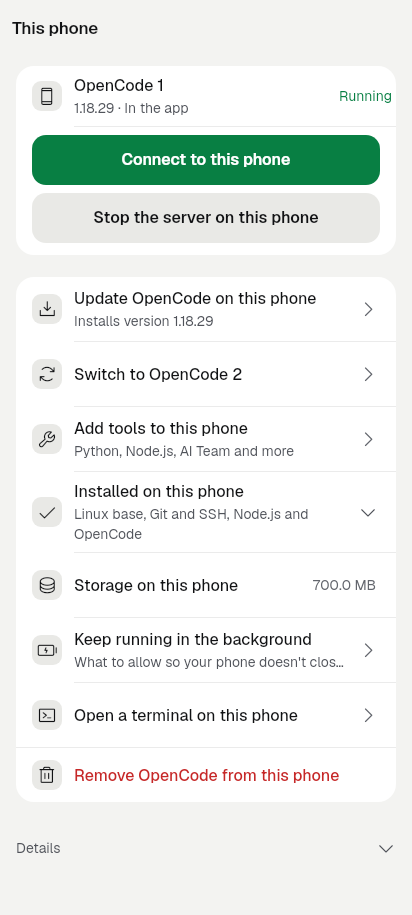
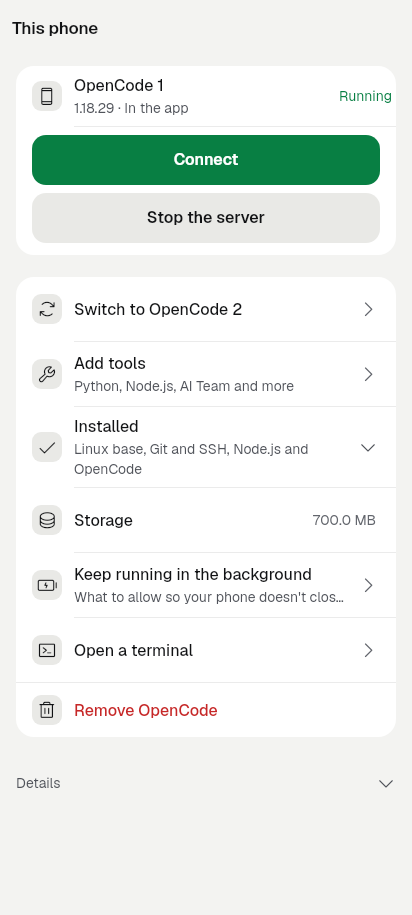
fix(phone): This phone rows stop repeating 'on this phone' [skip ci]
The page title names the phone; rows now read Connect, Stop the server,
Update OpenCode, Add tools, Installed, Storage, Open a terminal, Remove OpenCode.

Claude-Session: https://claude.ai/code/session_01K4UE4B9G3gAraoExNtCciU

diff --git a/lib/l10n/app_localizations.dart b/lib/l10n/app_localizations.dart
@@ -40602,25 +40602,25 @@ abstract class AppLocalizations {
   /// This phone: the button when OpenCode is not set up yet
   ///
   /// In en, this message translates to:
-  /// **'Set up OpenCode on this phone'**
+  /// **'Set up OpenCode'**
   String get thisPhoneSetUp;
 
   /// This phone: the button that starts the stopped OpenCode server
   ///
   /// In en, this message translates to:
-  /// **'Start the server on this phone'**
+  /// **'Start the server'**
   String get thisPhoneStart;
 
   /// This phone: the button that stops the running OpenCode server (it asks first)
   ///
   /// In en, this message translates to:
-  /// **'Stop the server on this phone'**
+  /// **'Stop the server'**
   String get thisPhoneStop;
 
   /// This phone: the row that installs the pinned OpenCode version again
   ///
   /// In en, this message translates to:
-  /// **'Update OpenCode on this phone'**
+  /// **'Update OpenCode'**
   String get thisPhoneUpdate;
 
   /// Technical: This phone: the line under Update, naming the pinned version it installs, e.g. 'Installs version 1.18.29'
@@ -40632,7 +40632,7 @@ abstract class AppLocalizations {
   /// This phone: the row (and sheet title) that adds optional tools
   ///
   /// In en, this message translates to:
-  /// **'Add tools to this phone'**
+  /// **'Add tools'**
   String get thisPhoneAddTools;
 
   /// This phone: the line under Add tools for OpenCode inside the app
@@ -40650,19 +40650,31 @@ abstract class AppLocalizations {
   /// This phone: the folded row that lists what setup installed
   ///
   /// In en, this message translates to:
-  /// **'Installed on this phone'**
+  /// **'Installed'**
   String get thisPhoneInstalled;
 
   /// This phone: the row that opens a shell in this phone's Linux
   ///
   /// In en, this message translates to:
-  /// **'Open a terminal on this phone'**
+  /// **'Open a terminal'**
   String get thisPhoneTerminal;
+
+  /// This phone: the storage row. The page title already names the phone.
+  ///
+  /// In en, this message translates to:
+  /// **'Storage'**
+  String get thisPhoneStorage;
+
+  /// This phone: the primary button that connects the app to this phone's running server. The page title names the phone.
+  ///
+  /// In en, this message translates to:
+  /// **'Connect'**
+  String get thisPhoneConnect;
 
   /// This phone: the destructive row that removes OpenCode (it asks first)
   ///
   /// In en, this message translates to:
-  /// **'Remove OpenCode from this phone'**
+  /// **'Remove OpenCode'**
   String get thisPhoneRemove;
 
   /// This phone: why a row is off while OpenCode starts, stops or installs

diff --git a/lib/l10n/app_localizations_ar.dart b/lib/l10n/app_localizations_ar.dart
@@ -25993,16 +25993,16 @@ class AppLocalizationsAr extends AppLocalizations {
   String get thisPhoneNeedsAttention => 'Needs you';
 
   @override
-  String get thisPhoneSetUp => 'Set up OpenCode on this phone';
+  String get thisPhoneSetUp => 'Set up OpenCode';
 
   @override
-  String get thisPhoneStart => 'Start the server on this phone';
+  String get thisPhoneStart => 'Start the server';
 
   @override
-  String get thisPhoneStop => 'Stop the server on this phone';
+  String get thisPhoneStop => 'Stop the server';
 
   @override
-  String get thisPhoneUpdate => 'Update OpenCode on this phone';
+  String get thisPhoneUpdate => 'Update OpenCode';
 
   @override
   String thisPhoneUpdateDetail(String version) {
@@ -26010,7 +26010,7 @@ class AppLocalizationsAr extends AppLocalizations {
   }
 
   @override
-  String get thisPhoneAddTools => 'Add tools to this phone';
+  String get thisPhoneAddTools => 'Add tools';
 
   @override
   String get thisPhoneAddToolsInApp => 'Python, Node.js, AI Team and more';
@@ -26019,13 +26019,19 @@ class AppLocalizationsAr extends AppLocalizations {
   String get thisPhoneAddToolsTermux => 'AI Team and Claude Code';
 
   @override
-  String get thisPhoneInstalled => 'Installed on this phone';
+  String get thisPhoneInstalled => 'Installed';
 
   @override
-  String get thisPhoneTerminal => 'Open a terminal on this phone';
+  String get thisPhoneTerminal => 'Open a terminal';
 
   @override
-  String get thisPhoneRemove => 'Remove OpenCode from this phone';
+  String get thisPhoneStorage => 'Storage';
+
+  @override
+  String get thisPhoneConnect => 'Connect';
+
+  @override
+  String get thisPhoneRemove => 'Remove OpenCode';
 
   @override
   String get thisPhoneBusy => 'Wait for the current step to finish';

diff --git a/lib/l10n/app_localizations_en.dart b/lib/l10n/app_localizations_en.dart
@@ -25709,16 +25709,16 @@ class AppLocalizationsEn extends AppLocalizations {
   String get thisPhoneNeedsAttention => 'Needs you';
 
   @override
-  String get thisPhoneSetUp => 'Set up OpenCode on this phone';
+  String get thisPhoneSetUp => 'Set up OpenCode';
 
   @override
-  String get thisPhoneStart => 'Start the server on this phone';
+  String get thisPhoneStart => 'Start the server';
 
   @override
-  String get thisPhoneStop => 'Stop the server on this phone';
+  String get thisPhoneStop => 'Stop the server';
 
   @override
-  String get thisPhoneUpdate => 'Update OpenCode on this phone';
+  String get thisPhoneUpdate => 'Update OpenCode';
 
   @override
   String thisPhoneUpdateDetail(String version) {
@@ -25726,7 +25726,7 @@ class AppLocalizationsEn extends AppLocalizations {
   }
 
   @override
-  String get thisPhoneAddTools => 'Add tools to this phone';
+  String get thisPhoneAddTools => 'Add tools';
 
   @override
   String get thisPhoneAddToolsInApp => 'Python, Node.js, AI Team and more';
@@ -25735,13 +25735,19 @@ class AppLocalizationsEn extends AppLocalizations {
   String get thisPhoneAddToolsTermux => 'AI Team and Claude Code';
 
   @override
-  String get thisPhoneInstalled => 'Installed on this phone';
+  String get thisPhoneInstalled => 'Installed';
 
   @override
-  String get thisPhoneTerminal => 'Open a terminal on this phone';
+  String get thisPhoneTerminal => 'Open a terminal';
 
   @override
-  String get thisPhoneRemove => 'Remove OpenCode from this phone';
+  String get thisPhoneStorage => 'Storage';
+
+  @override
+  String get thisPhoneConnect => 'Connect';
+
+  @override
+  String get thisPhoneRemove => 'Remove OpenCode';
 
   @override
   String get thisPhoneBusy => 'Wait for the current step to finish';

diff --git a/lib/ui/screens/this_phone_screen.dart b/lib/ui/screens/this_phone_screen.dart
@@ -467,9 +467,7 @@ class _ThisPhoneScreenState extends ConsumerState<ThisPhoneScreen> {
           if (!connected && _host.profile != null) {
             primary = KitAction(
               key: const ValueKey('this-phone-connect'),
-              label: l10n.phoneServerCardConnect(
-                l10n.phoneServerNameInSentence,
-              ),
+              label: l10n.thisPhoneConnect,
               onPressed: () => unawaited(_connect()),
             );
           }
@@ -627,7 +625,7 @@ class _ThisPhoneScreenState extends ConsumerState<ThisPhoneScreen> {
           KitRow(
             key: const ValueKey('this-phone-storage'),
             leading: icon(AppIconography.database),
-            title: l10n.termuxStorageTitle,
+            title: l10n.thisPhoneStorage,
             trailing: _host.bytesUsed == null
                 ? null
                 : KitRowValue(

diff --git a/test/this_phone_screen_test.dart b/test/this_phone_screen_test.dart
@@ -118,10 +118,7 @@ void main() {
     expect(_present(tester), _shared.toSet());
     // Every act names what it acts on.
     expect(find.text(_l10n.thisPhoneStop), findsOneWidget);
-    expect(
-      find.text(_l10n.phoneServerCardConnect(_l10n.phoneServerNameInSentence)),
-      findsOneWidget,
-    );
+    expect(find.text(_l10n.thisPhoneConnect), findsOneWidget);
     // Only the in-app Linux has a terminal and Remove.
     await tester.scrollUntilVisible(
       find.byKey(const ValueKey('this-phone-remove')),

diff --git a/lib/ui/widgets/termux_phone_tools.dart b/lib/ui/widgets/termux_phone_tools.dart
@@ -106,7 +106,7 @@ class _TermuxPhoneToolsRowsState extends State<TermuxPhoneToolsRows> {
     final storageRow = KitRow(
       key: const Key('termux-storage-row'),
       leading: KitRow.icon(context, AppIconography.database),
-      title: l10n.termuxStorageTitle,
+      title: l10n.thisPhoneStorage,
       supporting: TextSpan(text: storageSubtitle),
       supportingKey: const Key('termux-storage-row-subtitle'),
       trailing: const KitChevron(),
